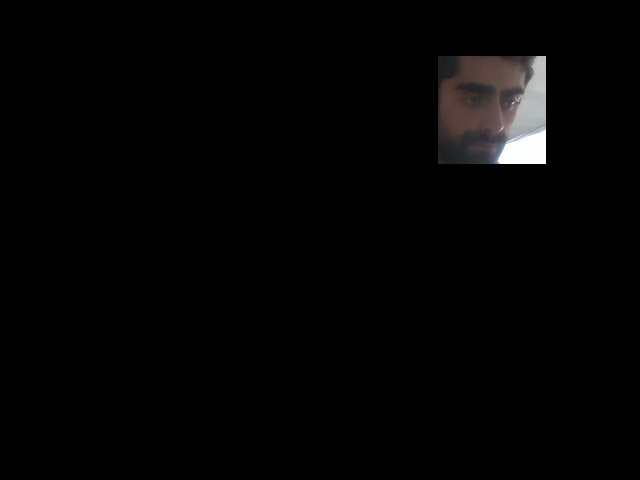
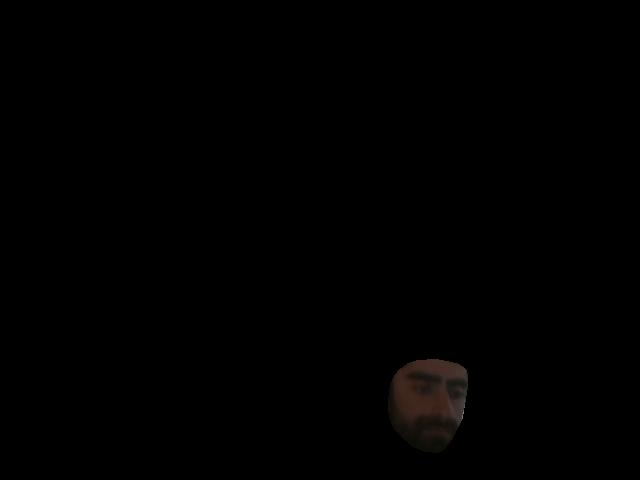
Testing facerec reid algorithm with extra mask provided by the holistic detector

Changed region(s): [[0.6875, 0.0938, 0.875, 0.3438], [0.5938, 0.75, 0.75, 0.9375]]

diff --git a/scripts/facerecReidHolistic.py b/scripts/facerecReidHolistic.py
@@ -1,0 +1,142 @@
+#!/usr/bin/env python3
+
+import rospy
+import rospkg
+import cv2
+import numpy as np
+
+from std_msgs.msg import String
+from sensor_msgs.msg import Image
+from cv_bridge import CvBridge, CvBridgeError
+from PIL import Image as imgPil
+from facerecModule import *
+from holisticDetectorModule import *
+from PIL import ImageDraw
+from scipy.spatial import ConvexHull
+
+
+
+class Reid:
+    def __init__(self):
+        rospy.init_node('reid')
+        rospack = rospkg.RosPack()
+
+        # Variable Initialization
+        self.directory = rospack.get_path('perception_tests') + '/images/'
+        self.rate = rospy.Rate(10)
+        self.img = None
+        self.draw = True
+        self.personCounter = 0
+        self.ctr = True
+        self.detector = holisticDetector()
+        self.cropOffset = 50
+
+        # Create arrays of known face encodings and their names
+        self.known_face_encodings = []
+        self.known_face_names = []
+        
+        self.bridge = CvBridge()
+
+        # Subscribe to Camera Topic
+        self.image_sub = rospy.Subscriber("/camera/color/image_raw", Image, self.imgCallback)
+
+        # Publish Detected Faces
+        self.reid_pub = rospy.Publisher("/reid", String, queue_size=10)
+
+    def run(self):
+        while not rospy.is_shutdown():
+            if self.img is not None:
+                if self.ctr:
+                    face_locations, face_names = faceRecognition(self.img, self.known_face_encodings, self.known_face_names)
+                    
+                    if face_names != []:
+                        res = self.lookIntoDetectPeople(face_locations, face_names)
+                        rospy.loginfo(res)
+                        self.reid_pub.publish(res)
+                    else:
+                        rospy.loginfo("No detections!")
+                        self.reid_pub.publish("No detections!")
+
+                    self.ctr = False
+                    
+                if self.draw:
+                    frame = drawRectangleAroundFace(self.img, face_locations, face_names)
+                    cv2.imshow("RealSense", frame)
+                    cv2.waitKey(1)
+                    
+            
+            self.rate.sleep()
+
+        if self.draw:
+            cv2.destroyAllWindows()
+        rospy.loginfo('Shutting Down Reid Node')
+
+
+    def getFaceMask(self, img):
+        height, width, c = img.shape
+        mask_img = imgPil.new('L', (width, height), 0)
+
+        points = np.array(self.detector.faceCoordinates)
+
+        hull = ConvexHull(points)
+        polygon = []
+        for v in hull.vertices:
+            polygon.append((points[v, 0], points[v, 1]))
+
+        ImageDraw.Draw(mask_img).polygon(polygon, outline=1, fill=1)
+        mask = np.array(mask_img)
+        
+        color_image = cv2.bitwise_and(img, img, mask=mask)
+
+        return color_image
+
+
+    def lookIntoDetectPeople(self, face_locations, face_names):
+        detectionResult = ''
+        for (top, right, bottom, left), name in zip(face_locations, face_names):
+            if name == "Unknown":
+                # Draw Mask
+                mask = np.zeros(self.img.shape[:2], dtype="uint8")
+                left -= self.cropOffset
+                top -= self.cropOffset
+                right += self.cropOffset
+                bottom += self.cropOffset
+                cv2.rectangle(mask, (left, top), (right, bottom), 255, -1)
+                img_masked = cv2.bitwise_and(self.img, self.img, mask=mask)
+
+                img_masked = self.detector.find(img_masked, False, False, False, False)
+                isFaceLandmarks = self.detector.getFaceLandmarks(img_masked)
+
+                if isFaceLandmarks:
+                    img_masked = self.getFaceMask(img_masked)
+                    # Save Img and Add to Enconder
+                    imageRGB = cv2.cvtColor(img_masked, cv2.COLOR_BGR2RGB)
+                    # Save new image of Person (not required)
+                    im = imgPil.fromarray(imageRGB)
+                    im_name = self.directory + "h" + str(self.personCounter) + ".png"
+                    im.save(im_name)
+                    # Load new Person to enconder
+                    faceEnconder = face_recognition.face_encodings(imageRGB)
+                    if len(faceEnconder) > 0:
+                        self.known_face_encodings.append(faceEnconder[0])
+                        self.known_face_names.append("H #" + str(self.personCounter))
+                        self.personCounter += 1
+            
+            
+            detectionResult += name + '; '
+        
+        return detectionResult
+
+    def imgCallback(self, data):
+        try:
+            self.img = self.bridge.imgmsg_to_cv2(data, "bgr8")
+            self.ctr = True
+        except CvBridgeError as e:
+            print(e)
+
+
+
+# Main function
+if __name__ == '__main__':
+    camera = Reid()
+    camera.run()
